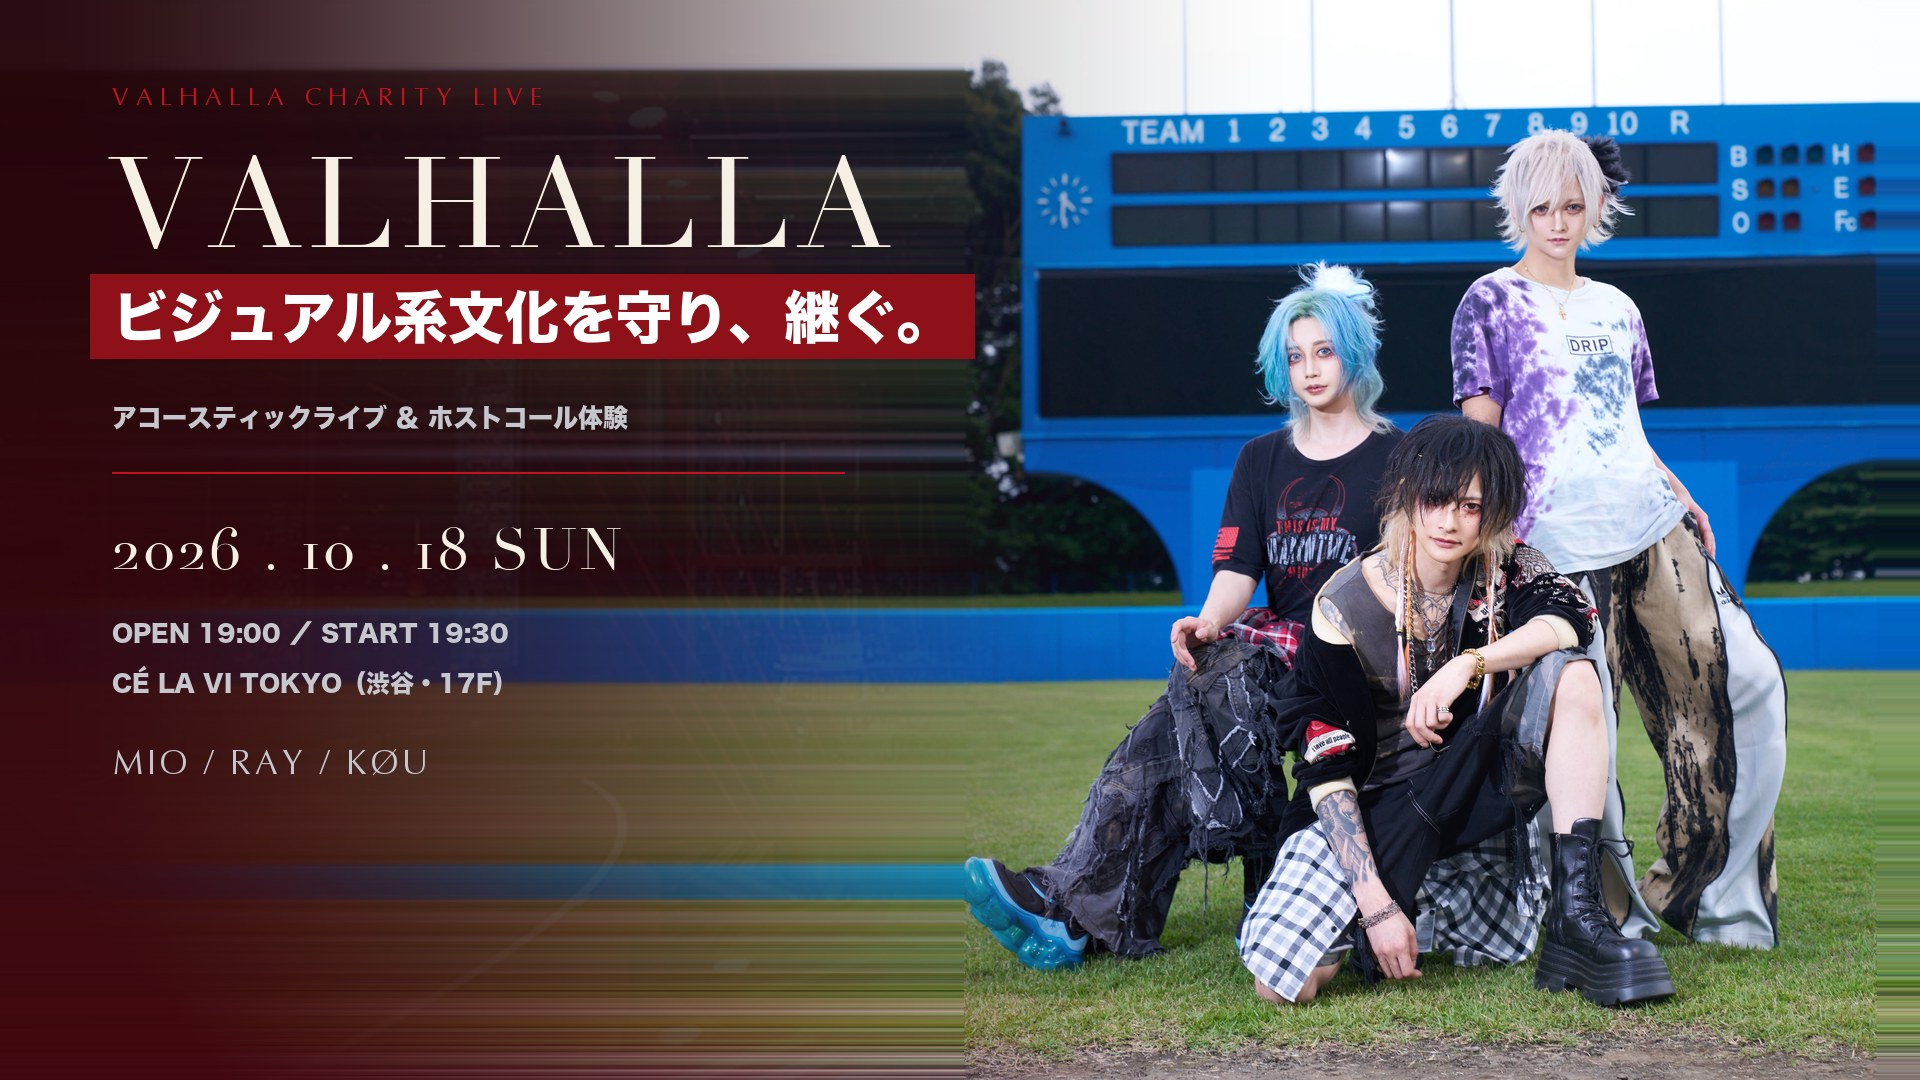
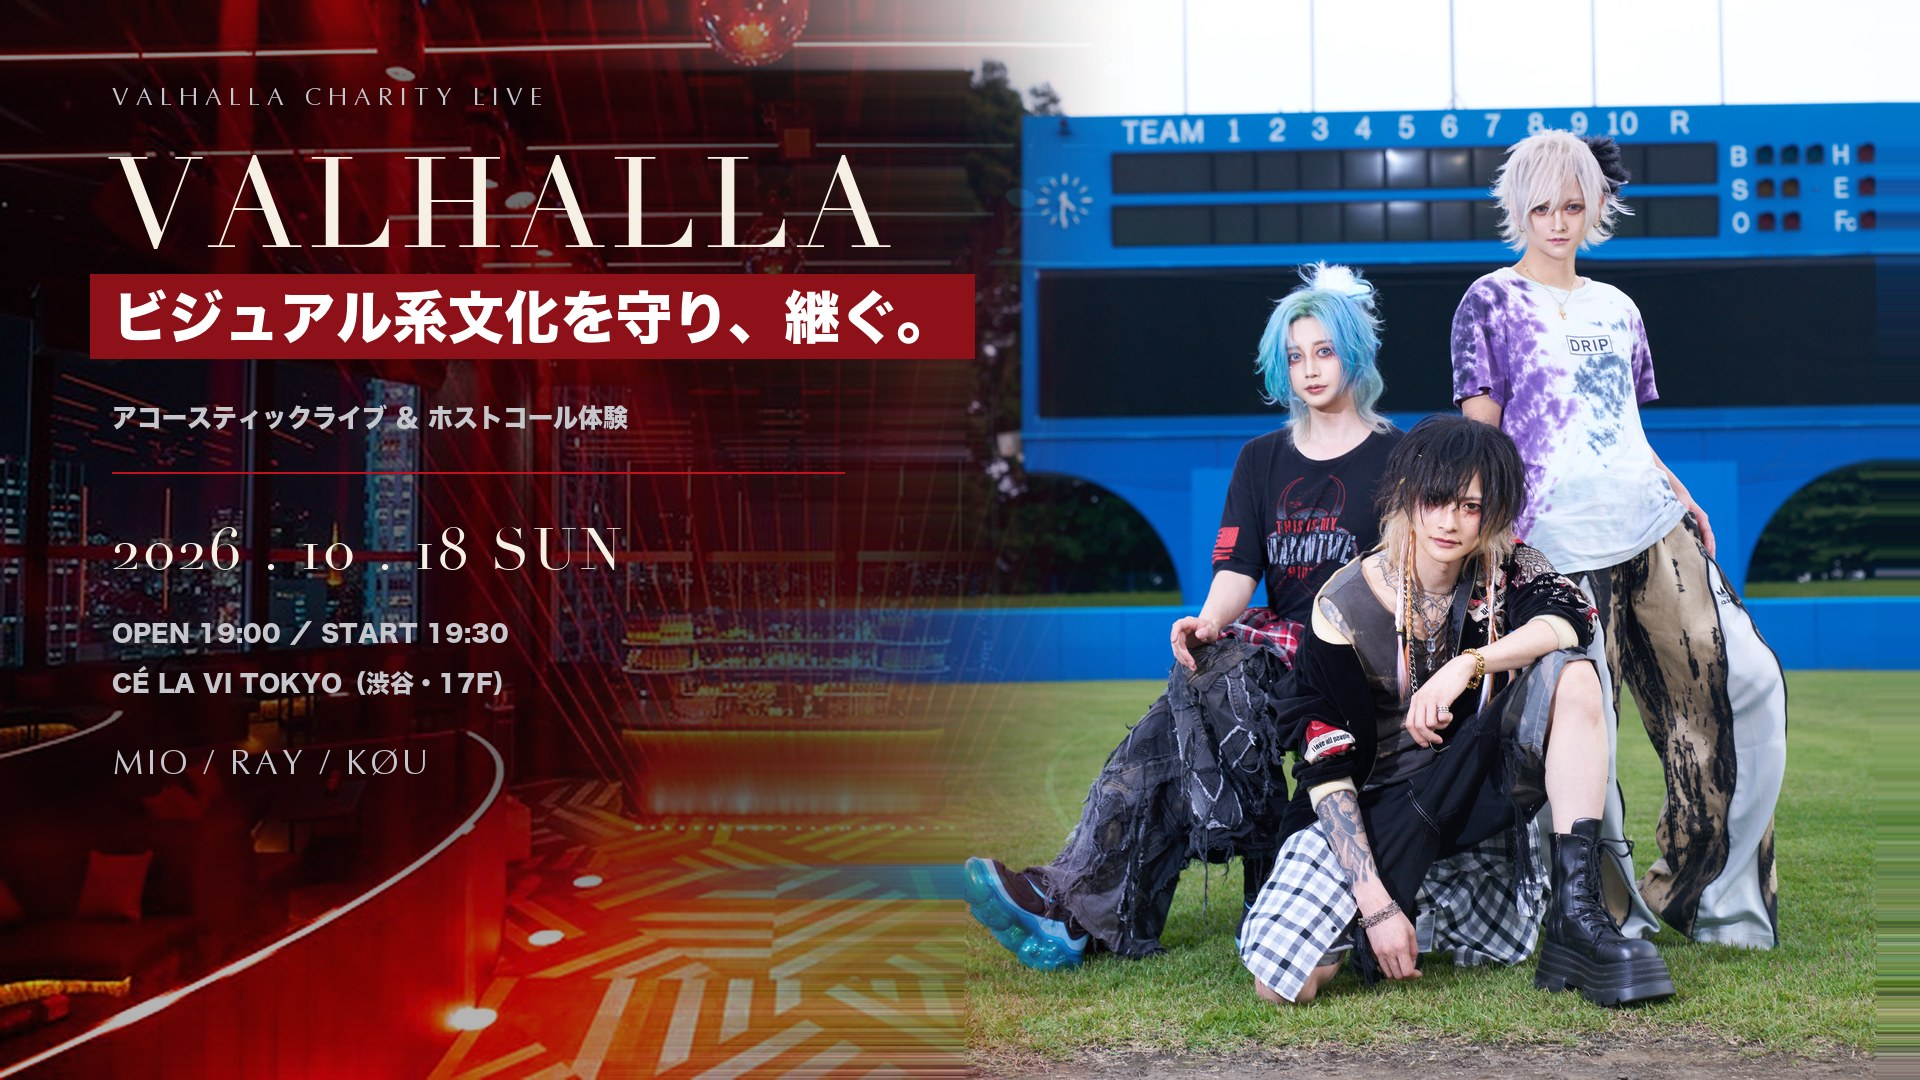
charity: crossfade the CE LA VI photo into the main visual
左に CE LA VI の赤いレーザー、右にメンバー3人。2枚を smoothstep の
アルファランプで650px以上かけて混ぜ、継ぎ目が見えないようにした。

スクリムを弱めた分だけ落ちた左側の可読性を、文字が乗る帯を重点的に
暗くして回復。最上部の小見出しはクリムゾンでは赤地に沈むため
シルバー #C6C6CD に変更した。

diff --git a/assets/charity/create_flyer_wide.py b/assets/charity/create_flyer_wide.py
@@ -2,7 +2,7 @@
 """Create the 16:9 CAMPFIRE hero image from the existing vertical flyer."""
 
 from pathlib import Path
-from PIL import Image, ImageDraw, ImageFont, ImageEnhance, ImageChops
+from PIL import Image, ImageDraw, ImageFont
 import os
 
 
@@ -85,50 +85,49 @@ def make_background() -> Image.Image:
     right_fill = portrait.crop((portrait_w - 1, 0, portrait_w, H)).resize((42, H))
     im.paste(right_fill, (W - 42, 0))
 
-    # CÉ LA VI texture is deliberately faint and confined to the dark left.
+    # Place the ungraded CÉ LA VI photograph over the full-height group image.
+    # Its strongest laser field is kept at the left, then dissolved into the
+    # group photograph over a wide, smoothstep-eased 650 px transition.
     venue = Image.open(VENUE).convert("RGB")
-    scale = max(W / venue.width, H / venue.height)
+    scale = H / venue.height
     venue = venue.resize((round(venue.width * scale), round(venue.height * scale)),
                          Image.Resampling.LANCZOS)
-    left = (venue.width - W) // 2
-    top = (venue.height - H) // 2
-    venue = venue.crop((left, top, left + W, top + H))
-    venue = ImageEnhance.Color(venue).enhance(0.72)
-    venue = ImageEnhance.Contrast(venue).enhance(1.08)
-    screened = ImageChops.screen(im, venue)
-    texture_mask = Image.new("L", (W, H), 0)
-    tm = texture_mask.load()
+    venue_layer = Image.new("RGB", (W, H), BLACK)
+    venue_layer.paste(venue, (0, 0))
+    venue_mask = Image.new("L", (W, H), 0)
+    venue_mask_px = venue_mask.load()
+    fade_start, fade_end = 500, 1150
     for y in range(H):
         for x in range(W):
-            nx = x / (W - 1)
-            fade = max(0.0, min(1.0, (0.56 - nx) / 0.18))
-            fade = fade * fade * (3.0 - 2.0 * fade)
-            strength = 0.14 * fade
-            tm[x, y] = round(255 * strength)
-    im = Image.composite(screened, im, texture_mask)
+            t = max(0.0, min(1.0, (x - fade_start) / (fade_end - fade_start)))
+            smooth = t * t * (3.0 - 2.0 * t)
+            venue_mask_px[x, y] = round(255 * 0.98 * (1.0 - smooth))
+    im = Image.composite(venue_layer, im, venue_mask)
 
-    # One continuous crimson scrim: nearly opaque at the left edge, easing
-    # over well over half the canvas and becoming fully transparent before
-    # the faces. A subtle lower-edge darkening anchors the information block.
-    overlay = Image.new("RGB", (W, H), BLACK)
-    overlay_px = overlay.load()
-    mask = Image.new("L", (W, H), 0)
-    mask_px = mask.load()
+    # A near-black scrim protects the type while leaving the venue's laser
+    # shapes and red light visible.  The broad horizontal falloff darkens the
+    # left 55% of the frame; a second, softly feathered vertical component
+    # concentrates that protection behind the complete type block.
+    scrim = Image.new("RGB", (W, H), BLACK)
+    scrim_mask = Image.new("L", (W, H), 0)
+    scrim_px = scrim_mask.load()
     for y in range(H):
-        ny = y / (H - 1)
         for x in range(W):
-            nx = x / (W - 1)
-            progress = max(0.0, min(1.0, nx / 0.70))
-            eased = progress * progress * (3.0 - 2.0 * progress)
-            alpha = 0.97 * (1.0 - eased)
-            lower = max(0.0, (ny - 0.72) / 0.28) ** 2
-            alpha = min(0.98, alpha + 0.10 * lower * (1.0 - progress))
-            crimson_mix = 0.28 + 0.28 * ny
-            overlay_px[x, y] = tuple(round(BLACK[i] * (1 - crimson_mix)
-                                                   + DEEPEST_CRIMSON[i] * crimson_mix)
-                                      for i in range(3))
-            mask_px[x, y] = round(255 * alpha)
-    return Image.composite(overlay, im, mask)
+            # Stay fully effective beneath the copy, then dissolve smoothly
+            # beyond it so no vertical seam is introduced near the photos.
+            left_t = max(0.0, min(1.0, (x - 720.0) / 430.0))
+            left_fade = 1.0 - left_t * left_t * (3.0 - 2.0 * left_t)
+
+            # Soft entry at the very top and a long exit below the artist names.
+            top_t = max(0.0, min(1.0, y / 105.0))
+            top_rise = top_t * top_t * (3.0 - 2.0 * top_t)
+            bottom_t = max(0.0, min(1.0, (y - 760.0) / 210.0))
+            bottom_fall = 1.0 - bottom_t * bottom_t * (3.0 - 2.0 * bottom_t)
+            type_band = top_rise * bottom_fall
+
+            alpha = min(0.60, left_fade * (0.29 + 0.30 * type_band))
+            scrim_px[x, y] = round(255 * alpha)
+    return Image.composite(scrim, im, scrim_mask)
 
 
 def add_type(base: Image.Image) -> None:
@@ -136,7 +135,7 @@ def add_type(base: Image.Image) -> None:
     x = 112
 
     eyebrow = font(OPTIMA, 25)
-    tracked_text(draw, (x, 82), "VALHALLA CHARITY LIVE", eyebrow, CRIMSON, 7)
+    tracked_text(draw, (x, 82), "VALHALLA CHARITY LIVE", eyebrow, SILVER, 7)
 
     valhalla = font(DIDOT, 126)
     tracked_text(draw, (x - 2, 128), "VALHALLA", valhalla, CREAM, 7)
